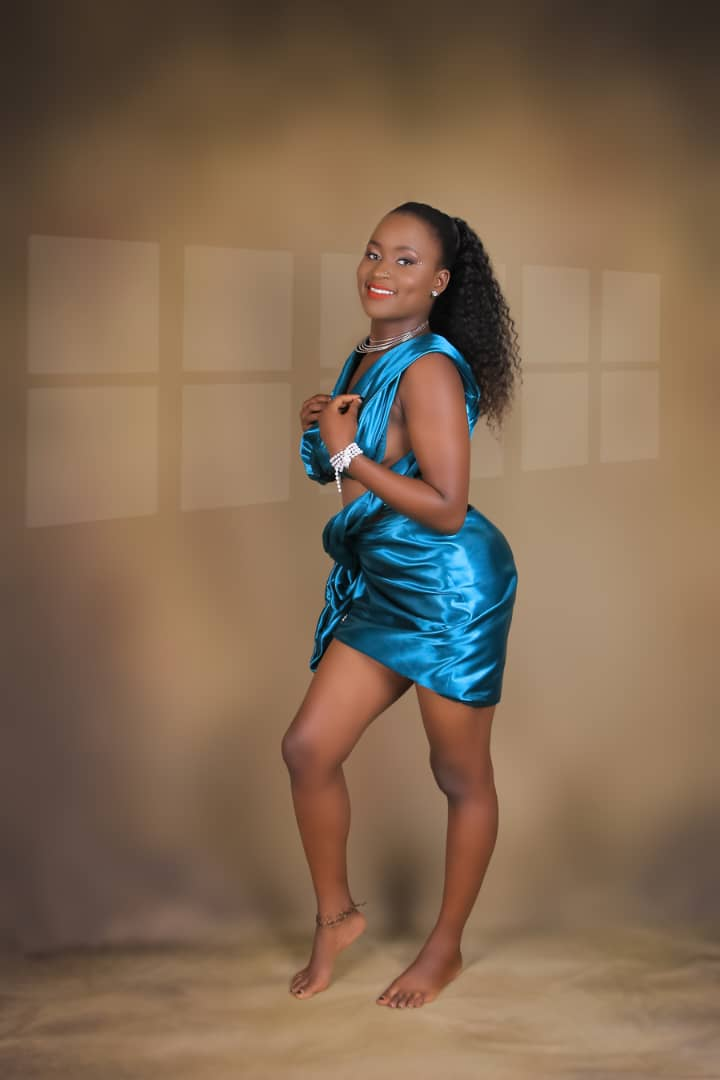
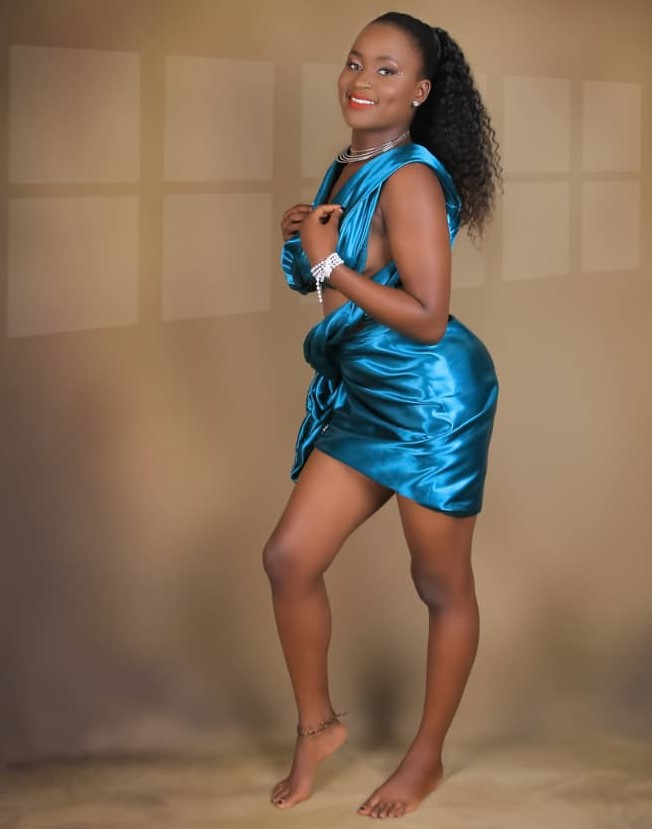
Add files via upload

diff --git a/index.html b/index.html
@@ -38,7 +38,7 @@
   <title>Be My Valentine Hildah 🌹</title>
   <style>
     body {
-      background-image: url('me.jpg');
+      background-image: url('Photo from Fresh Teacher (9).jpg');
       background-size: cover;
       background-repeat: no-repeat;
       background-attachment: fixed;
